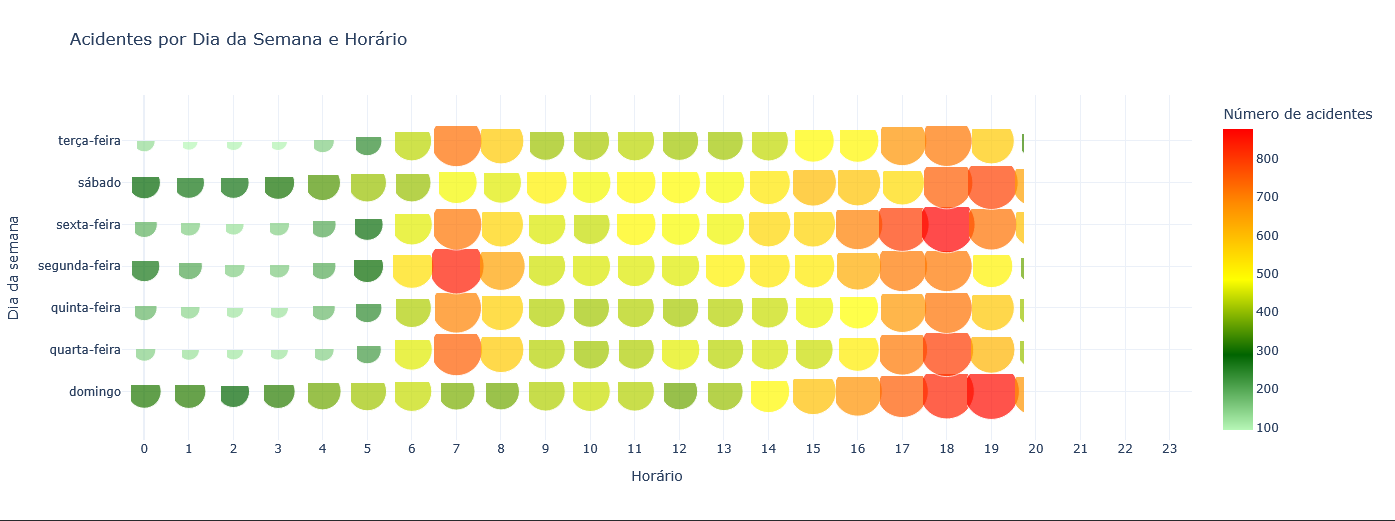
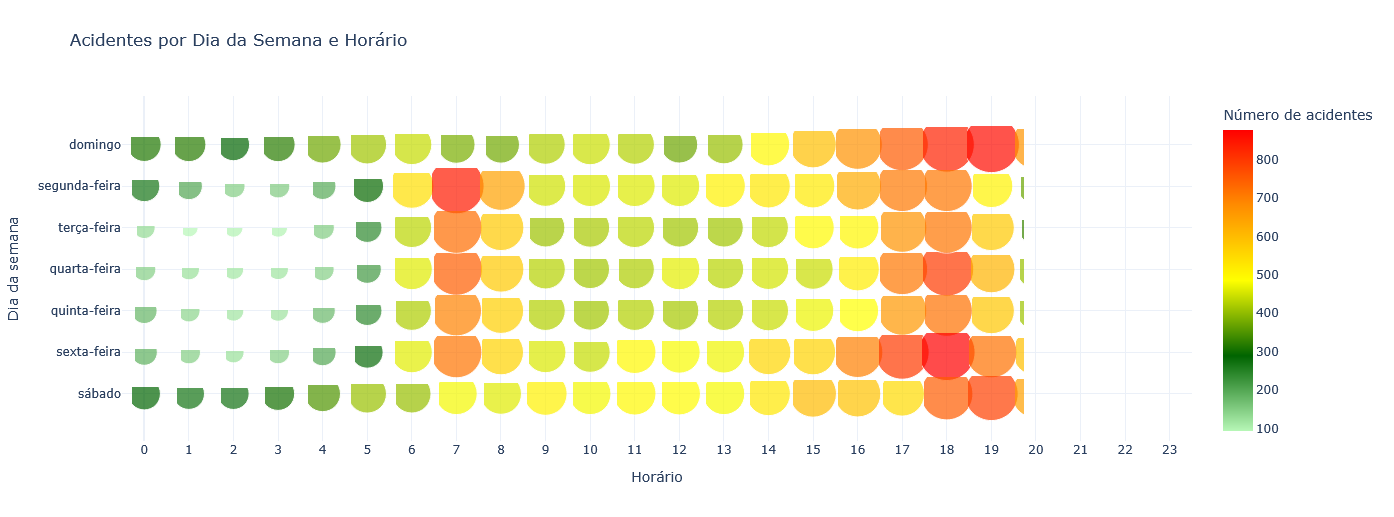
Teste

diff --git a/RELATORIO.md b/RELATORIO.md
@@ -37,7 +37,7 @@
 
 <mark>`É possivel compilar no Google Colab pelo link: https://colab.research.google.com/drive/1y_QaXc6fwK_sIMhsXuZJiyxmDFib4jCH?usp=sharing`</mark>
 
-![Visualização resultante](cgvis-lab3-visualizacao/Imagens%20de%20visualizações/Gráfico%20de%20Bolhas.png)
+![Visualização resultante](cgvis-lab3-visualizacao/Imagens de visualizações/Gráfico de Bolhas.png)
 
 ## Descrição da visualização
 